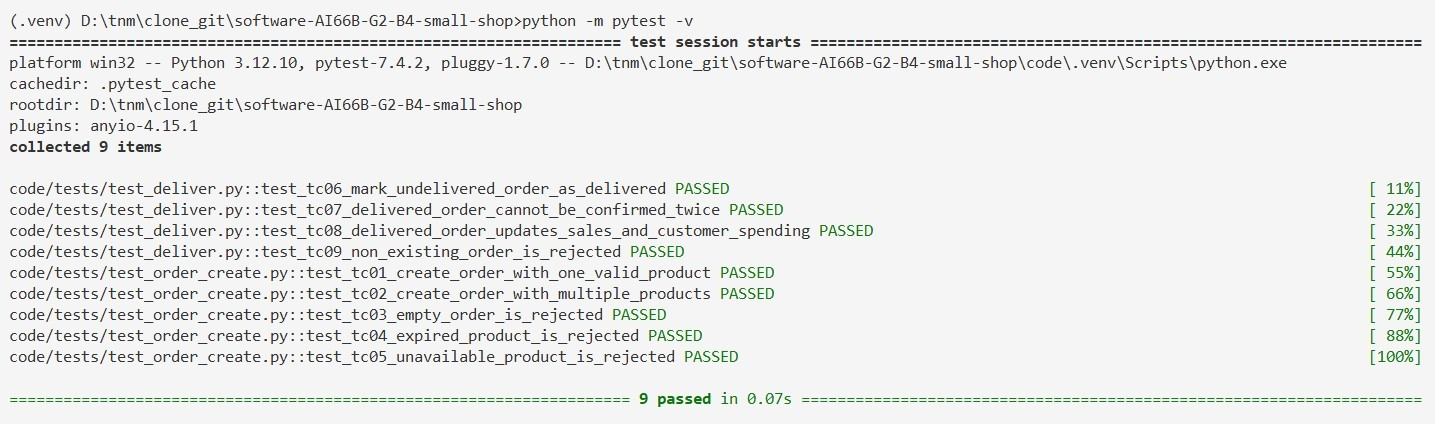
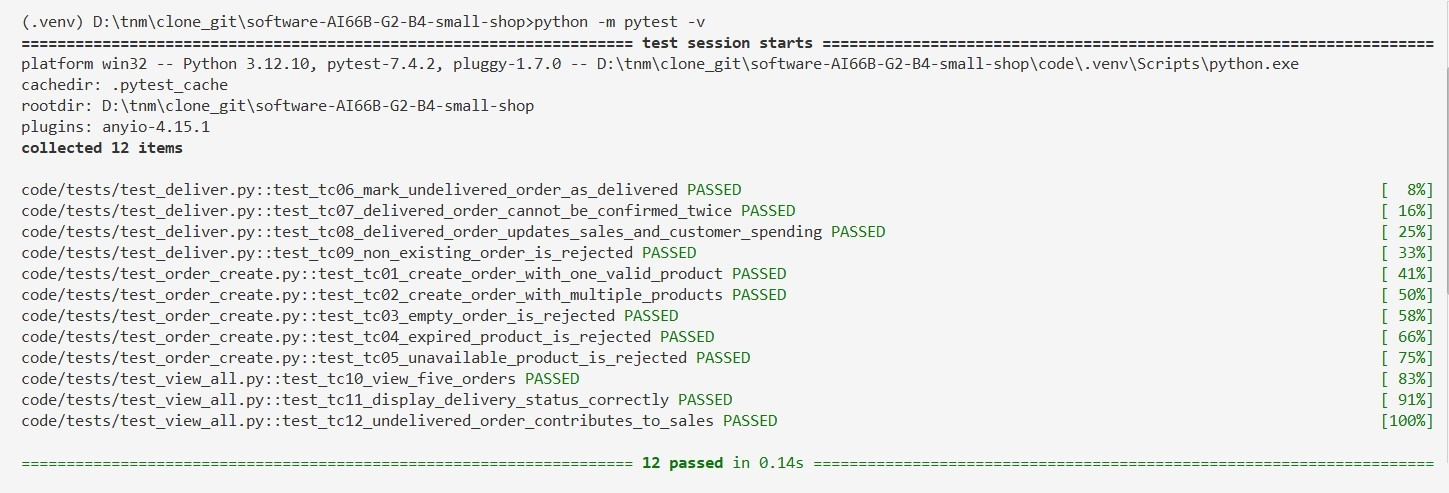
docs: add instruction to fail a TC
Refs: #255

Changed region(s): [[0.0, 0.0307, 1.0, 0.8892], [0.9505, 0.3679, 1.0, 0.8892], [0.0, 0.9198, 1.0, 0.9505]]

diff --git a/code/backend/services/test_order.py b/code/backend/services/test_order.py
@@ -60,10 +60,7 @@ def view_all_orders(repo):
 
     # TC-12 - BR2 violation
     for order in orders:
-        if (
-            order["deliver_status"] == "not_deliver"
-            and order["included_in_sales"] is True
-        ):
+        if (order["deliver_status"] == "not_deliver" and order["included_in_sales"] is True):
             raise OrderError(
                 409,
                 "Order violated completion rules!"

diff --git a/code/tests/test_view_all.py b/code/tests/test_view_all.py
@@ -38,7 +38,6 @@ def test_tc11_display_delivery_status_correctly():
     assert result["orders"][1]["deliver_status"] == "not_deliver"
 
 # TC-12
-
 def test_tc12_undelivered_order_contributes_to_sales():
 
     repo = FakeViewOrderRepo([

diff --git a/docs/daily.md b/docs/daily.md
@@ -80,3 +80,6 @@
 
 # 28/10/2026:
 - @ngocmai141106: Listed all test cases for US02 (counting continue from US01's. Or should i restart from TC-01?), including their related pytests, fake repo class, fake service, and a new success screenshot of all 9 of them this time to replace the old one (with only 5 ones of US01). The same goes for US06 (except i think im vomitting nonsense since the Error one in its TC list shouldn't exist at first point...) Also connect the work to the real database on another branch for Create order and View all order screens (but the View detail information screen isn't working so i wont merge that branch in anytime).
+
+# 29/10/2026:
+- ngocmai141106: Added instruction how to fail the Error TCs on purpose in docs/testing.md. Still need formatting.

diff --git a/docs/testing.md b/docs/testing.md
@@ -45,6 +45,14 @@ Test results for US01:
 ### 4.0. No bug found
 - The rule we broke on purpose:
 - The red output:
+*@aizun pls reformat this for me*
+How to break each Errror test to show red output: Come to backend/services/test_order.py and change:
+- TC-03: line 9: *if len(products) == 0:* into *if len(products) < 0:*
+- TC04: line 17: *if product["name"] in repo.expired_products:* into *if False:*
+- TC-05: line 23: *if product["name"] in repo.unavailable_products:* into *if False:*
+- TC-07: line 42: *if order["deliver_status"] == "delivered":* into *if False:*
+- TC-12: line 63: *if (order["deliver_status"] == "not_deliver" and order["included_in_sales"] is True):* into *if False:*
+
 
 ### 4.1. Entry 1
 A bug we found no.1:
